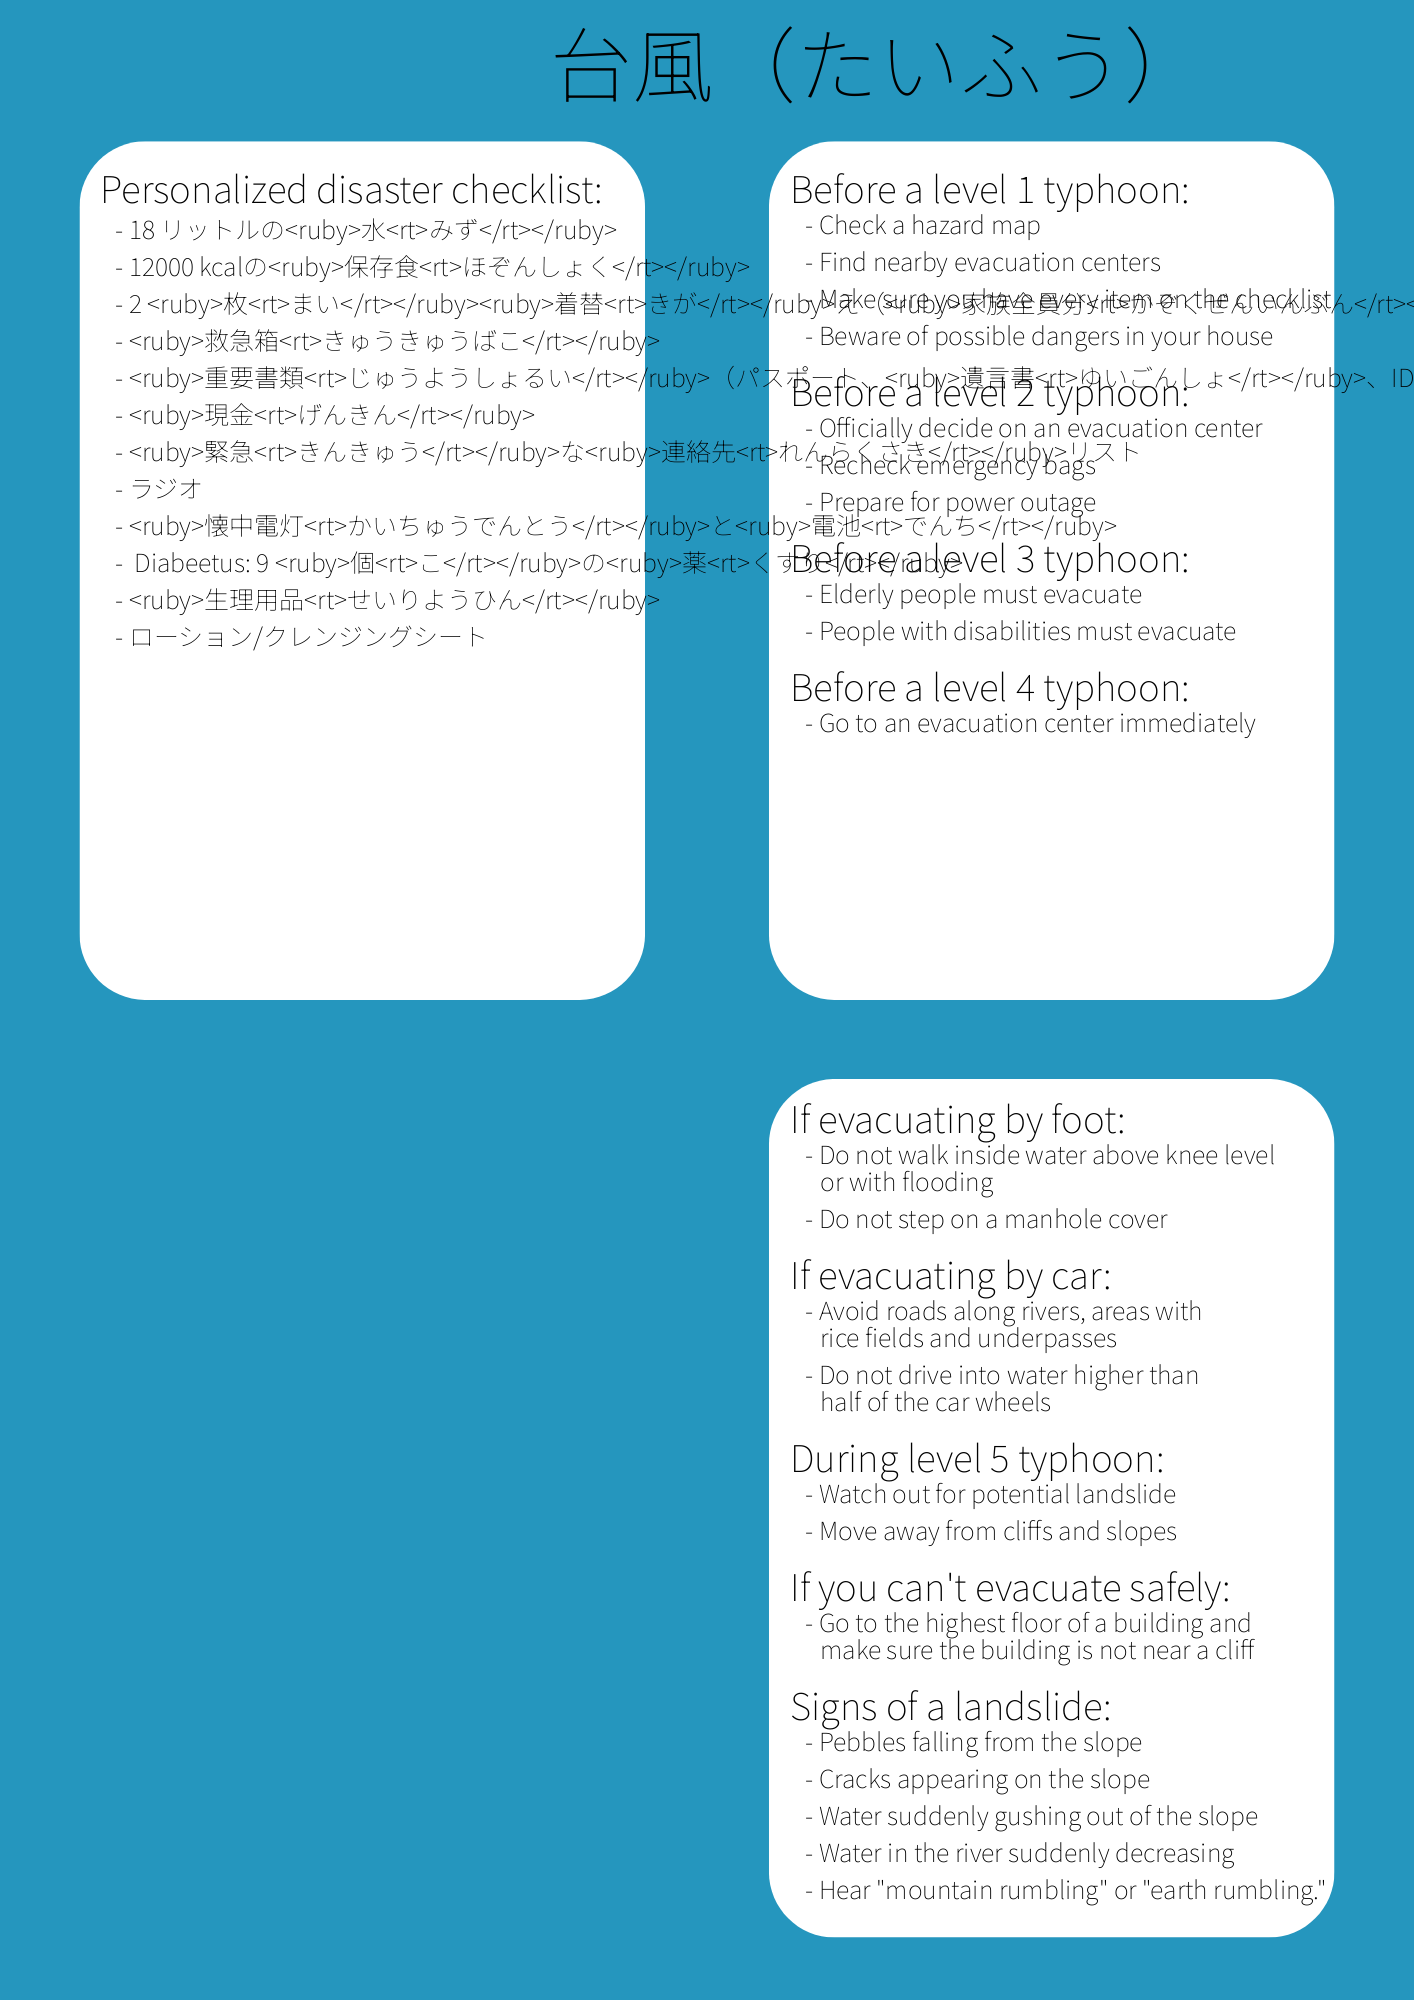
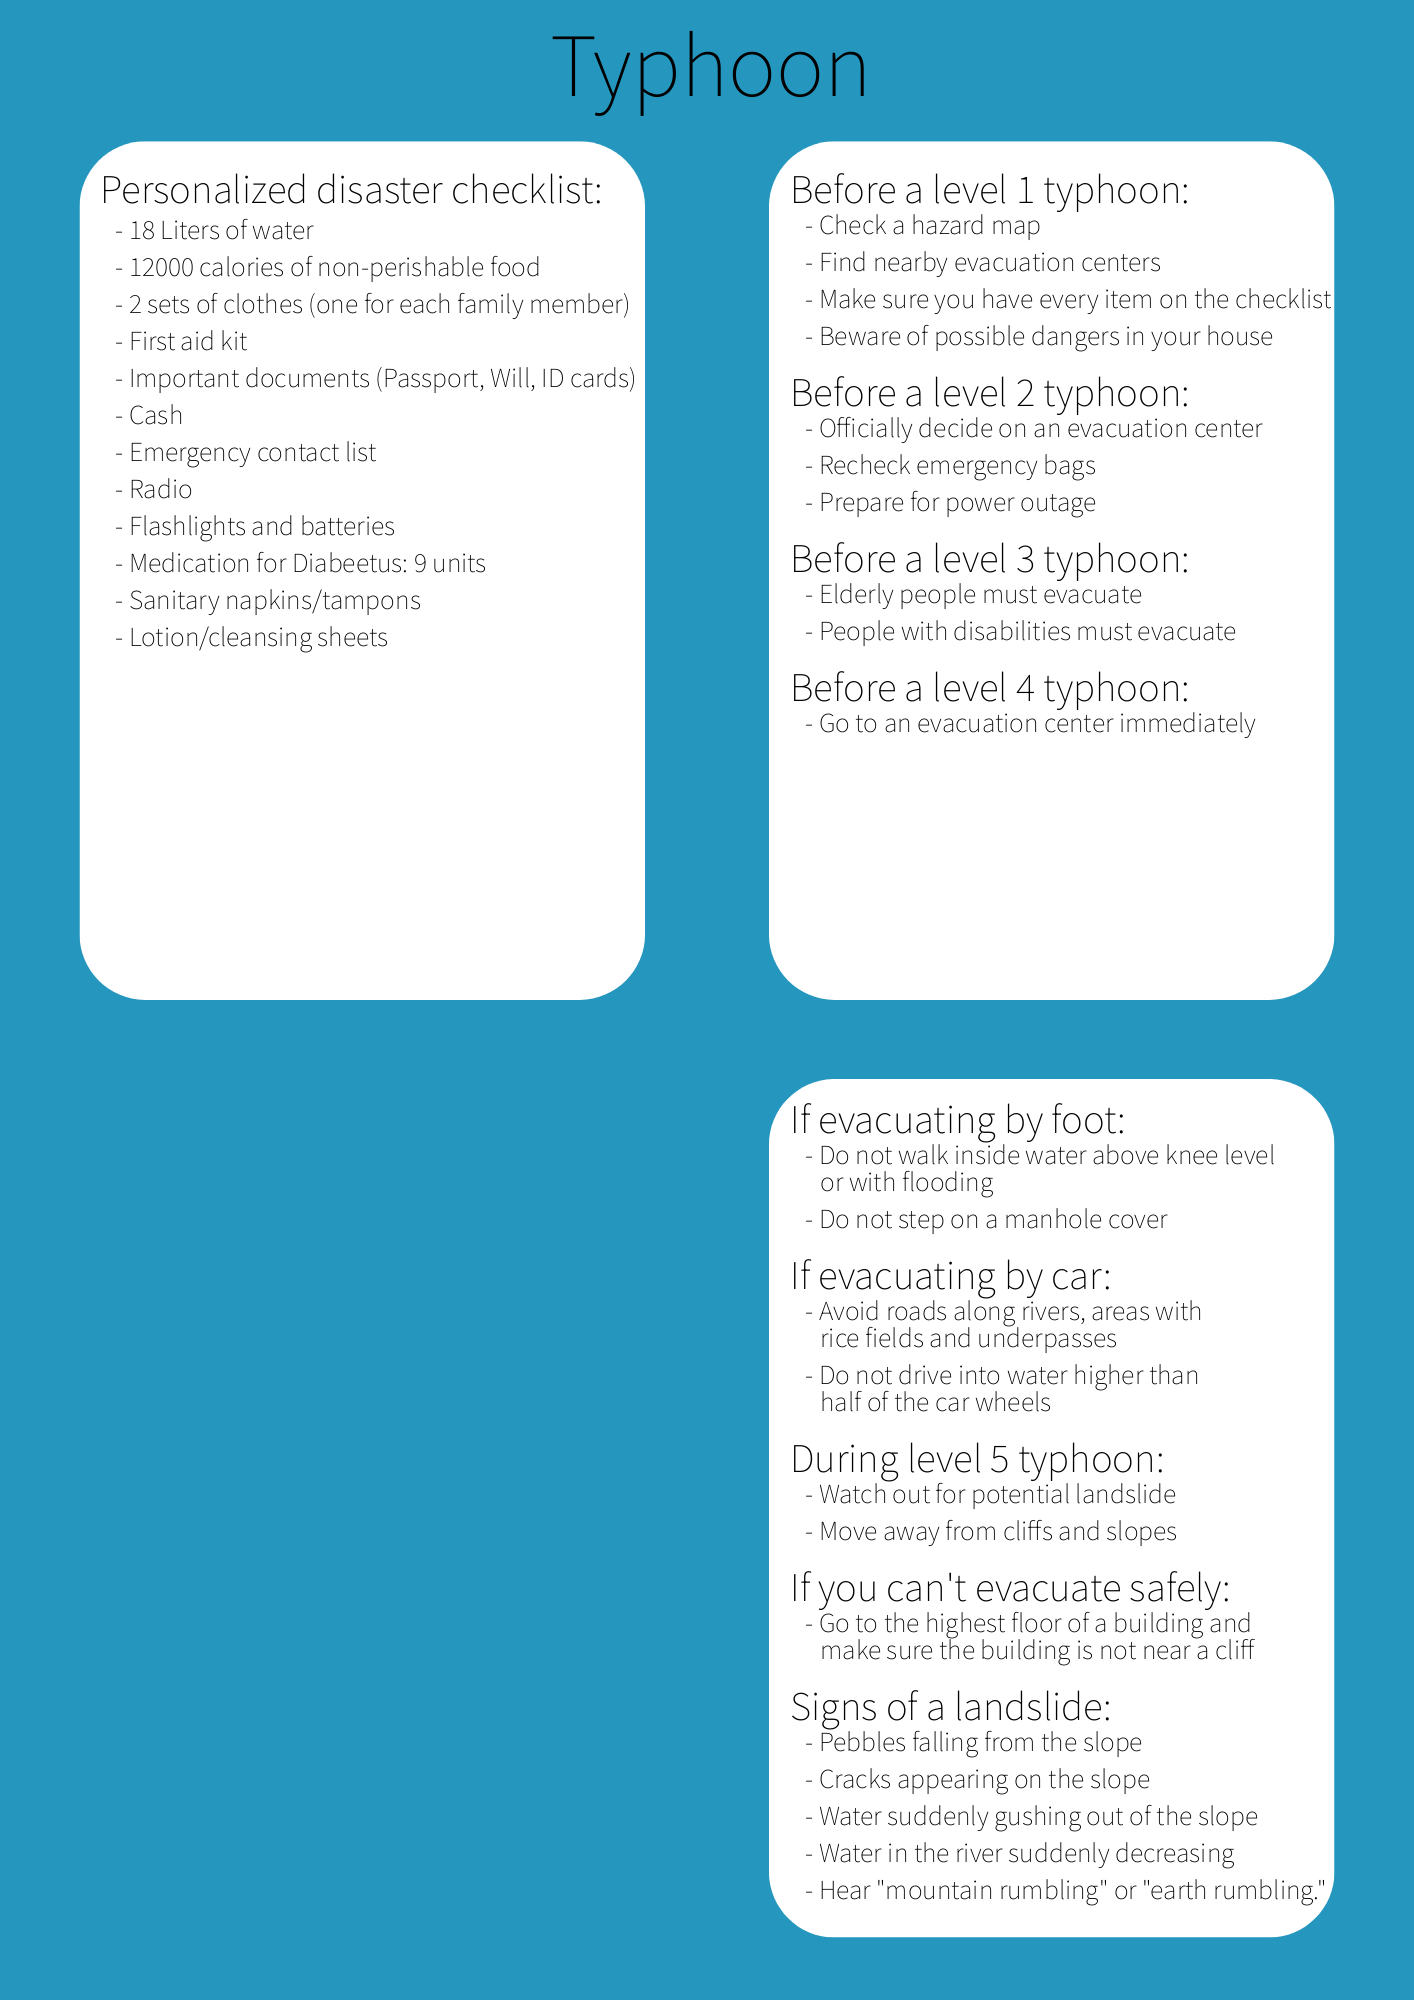
Fixed a few translations, added function to parse furigana out of strings. Currently no furigana is being printed.

diff --git a/website/utils.py b/website/utils.py
@@ -1,7 +1,18 @@
 import os
+import re
 from PIL import Image, ImageDraw, ImageFont
 from django.conf import settings
 from django.utils.translation import gettext as trans
+
+def parse_furigana(text: str) -> tuple[str, list[tuple[str, str]]]:
+    ruby_pattern = re.compile(r'<ruby>(.*?)<rt>(.*?)</rt></ruby>')
+    matches = ruby_pattern.findall(text)
+    parsed_text = []
+    for match in matches:
+        base_text, furigana = match
+        parsed_text.append((base_text, furigana))
+        text = text.replace(f'<ruby>{base_text}<rt>{furigana}</rt></ruby>', base_text)
+    return text, parsed_text
 
 def checklist_image(checklist, disaster_type, facts):
     # Loading the image template from static folder
@@ -15,6 +26,8 @@ def checklist_image(checklist, disaster_type, facts):
     font_path = os.path.join(settings.STATIC_ROOT, 'fonts', 'NotoSansJP-VariableFont_wght.ttf')
     font_size = 82
     font = ImageFont.truetype(font_path, font_size)
+    furigana_font_size = 25
+    furigana_font = ImageFont.truetype(font_path, furigana_font_size)
 
     # Position and creation of disaster name
     x, y = 550, 0
@@ -24,14 +37,14 @@ def checklist_image(checklist, disaster_type, facts):
     font_size = 37
     font = ImageFont.truetype(font_path, font_size)
     x, y = 100, 160
-    draw.text((x, y), "Personalized disaster checklist:", font=font, fill='black')
+    draw.text((x, y), trans("Personalized disaster checklist:"), font=font, fill='black')
 
     font_size = 25
     font = ImageFont.truetype(font_path, font_size)
     x, y = 115, 210
 
     for item in checklist:
-        draw.text((x, y), f"- {trans(item)}", font=font, fill='black')
+        draw.text((x, y), f"- {trans(parse_furigana(item)[0])}", font=font, fill='black')
         y += 37
 
     # REMINDER TO MAKE TEXT DRAW FUNCTION 
